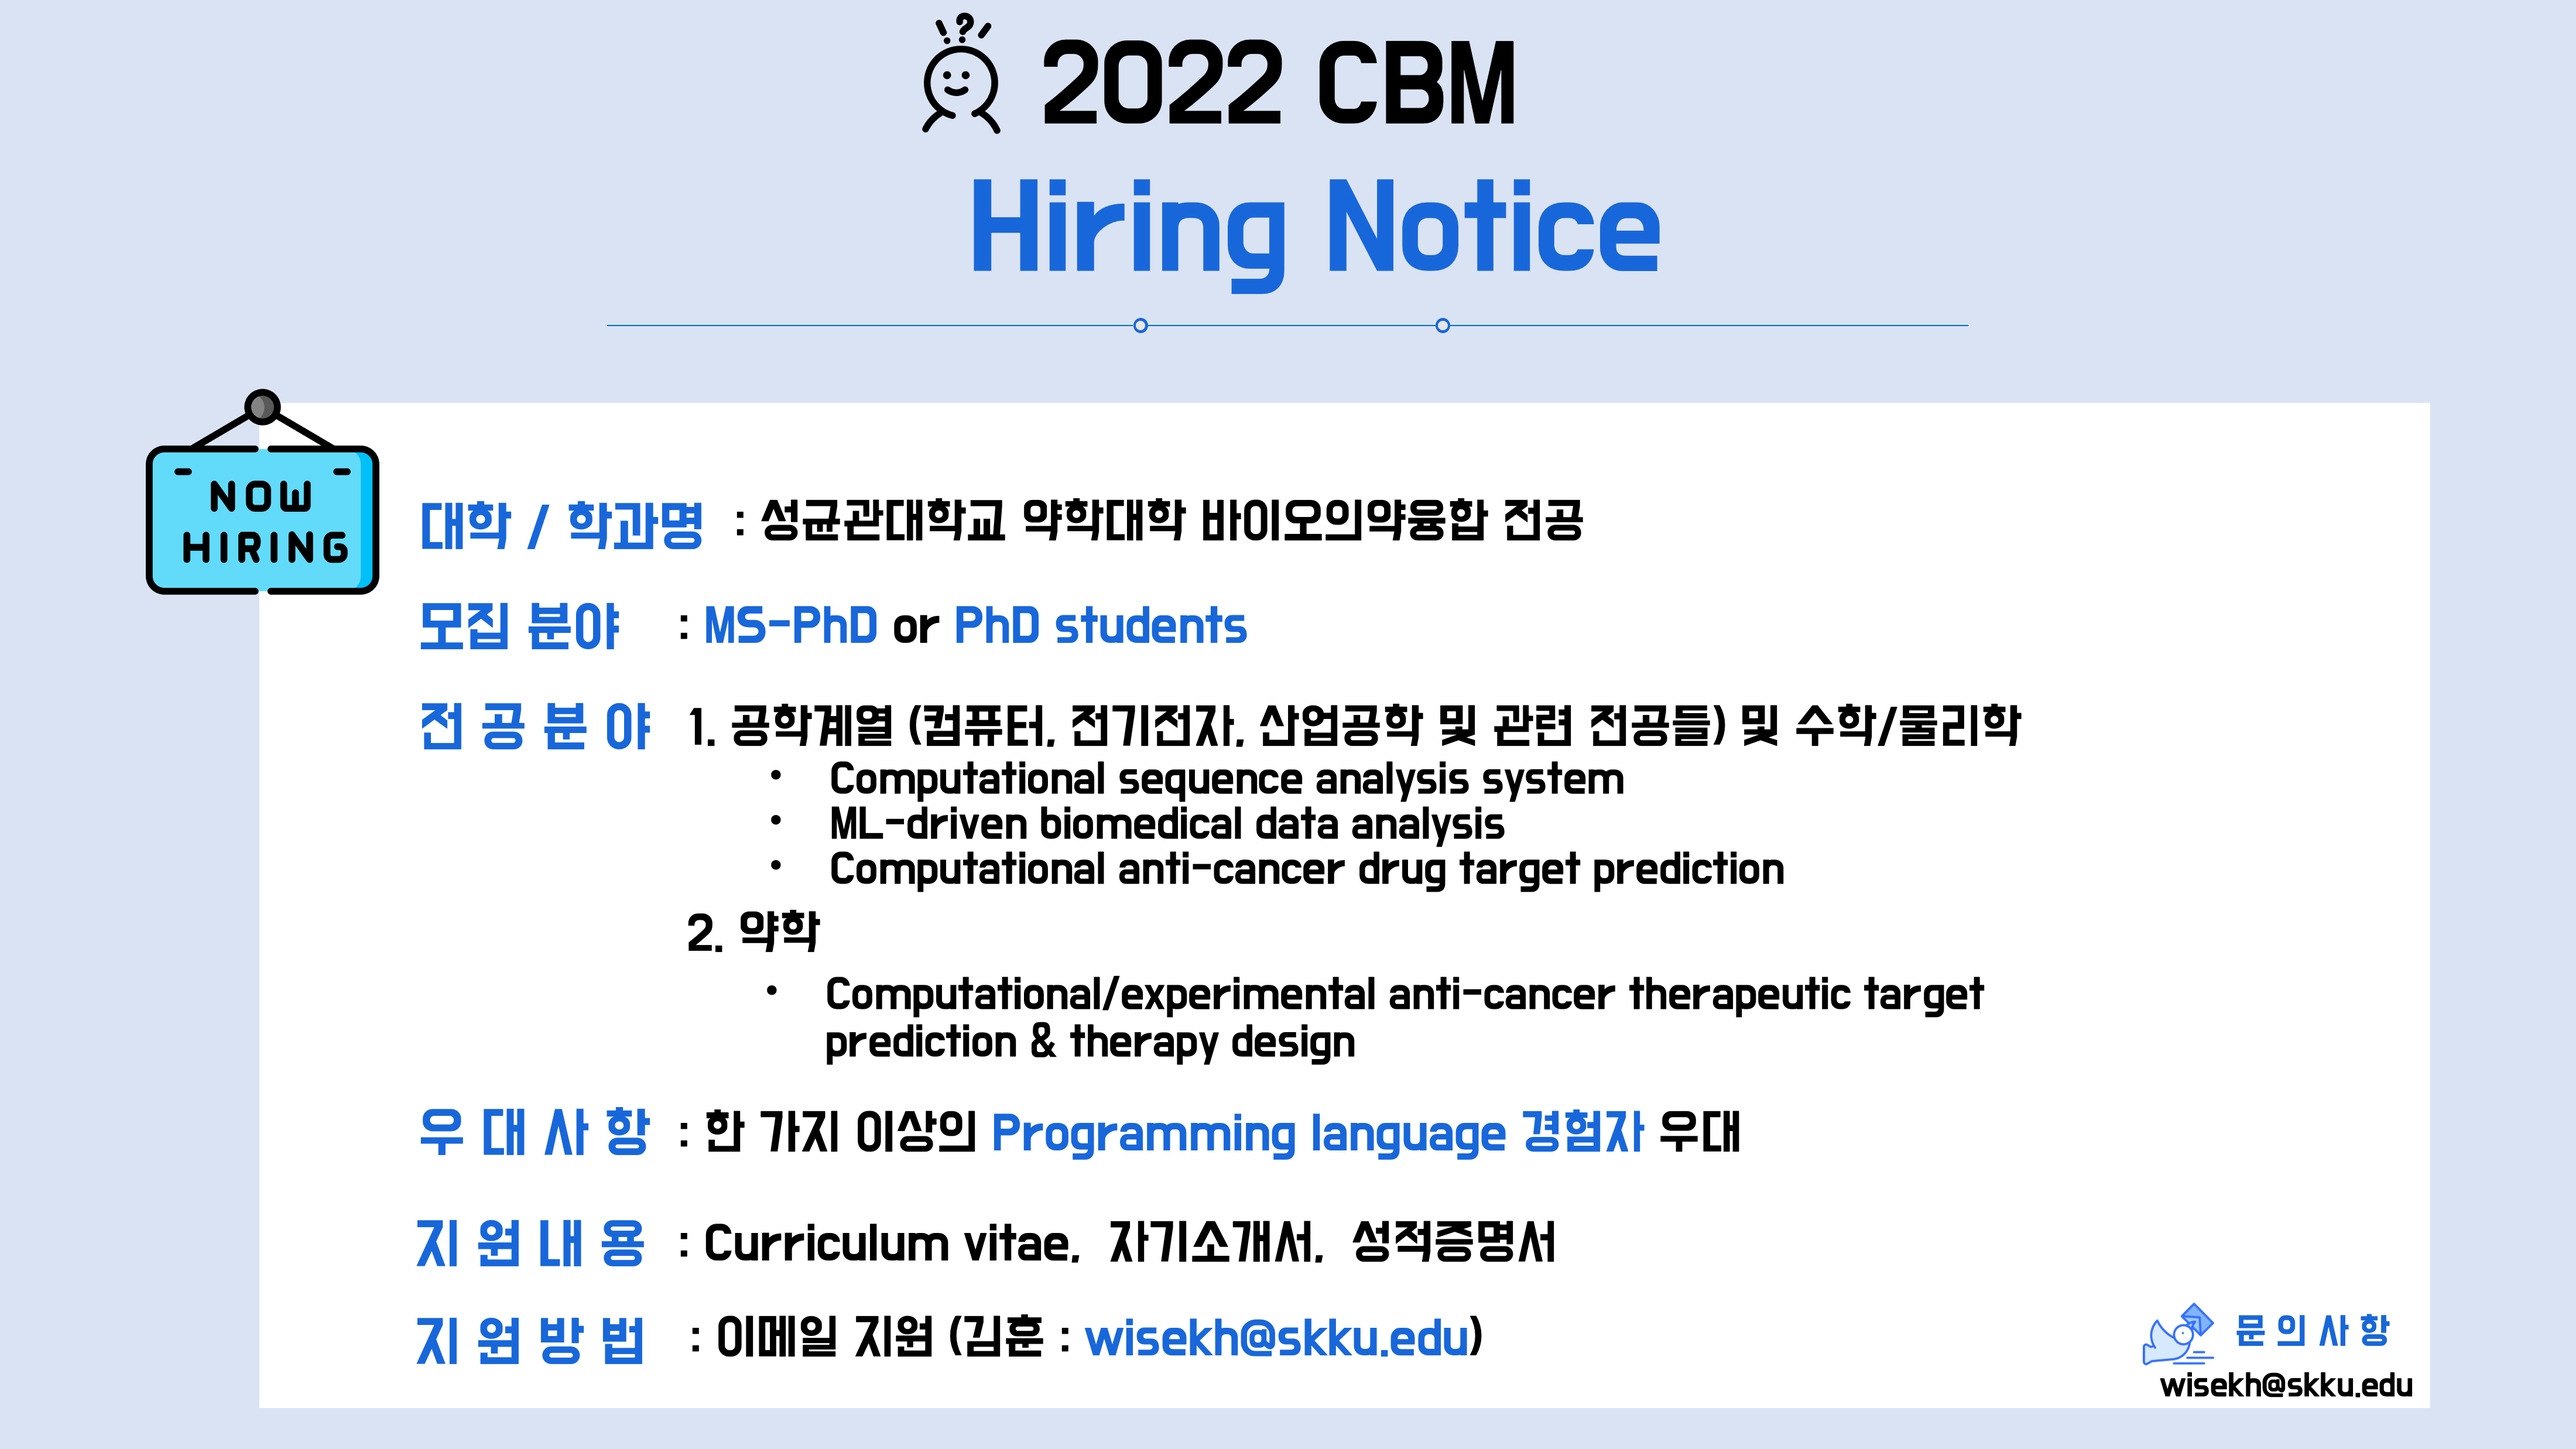
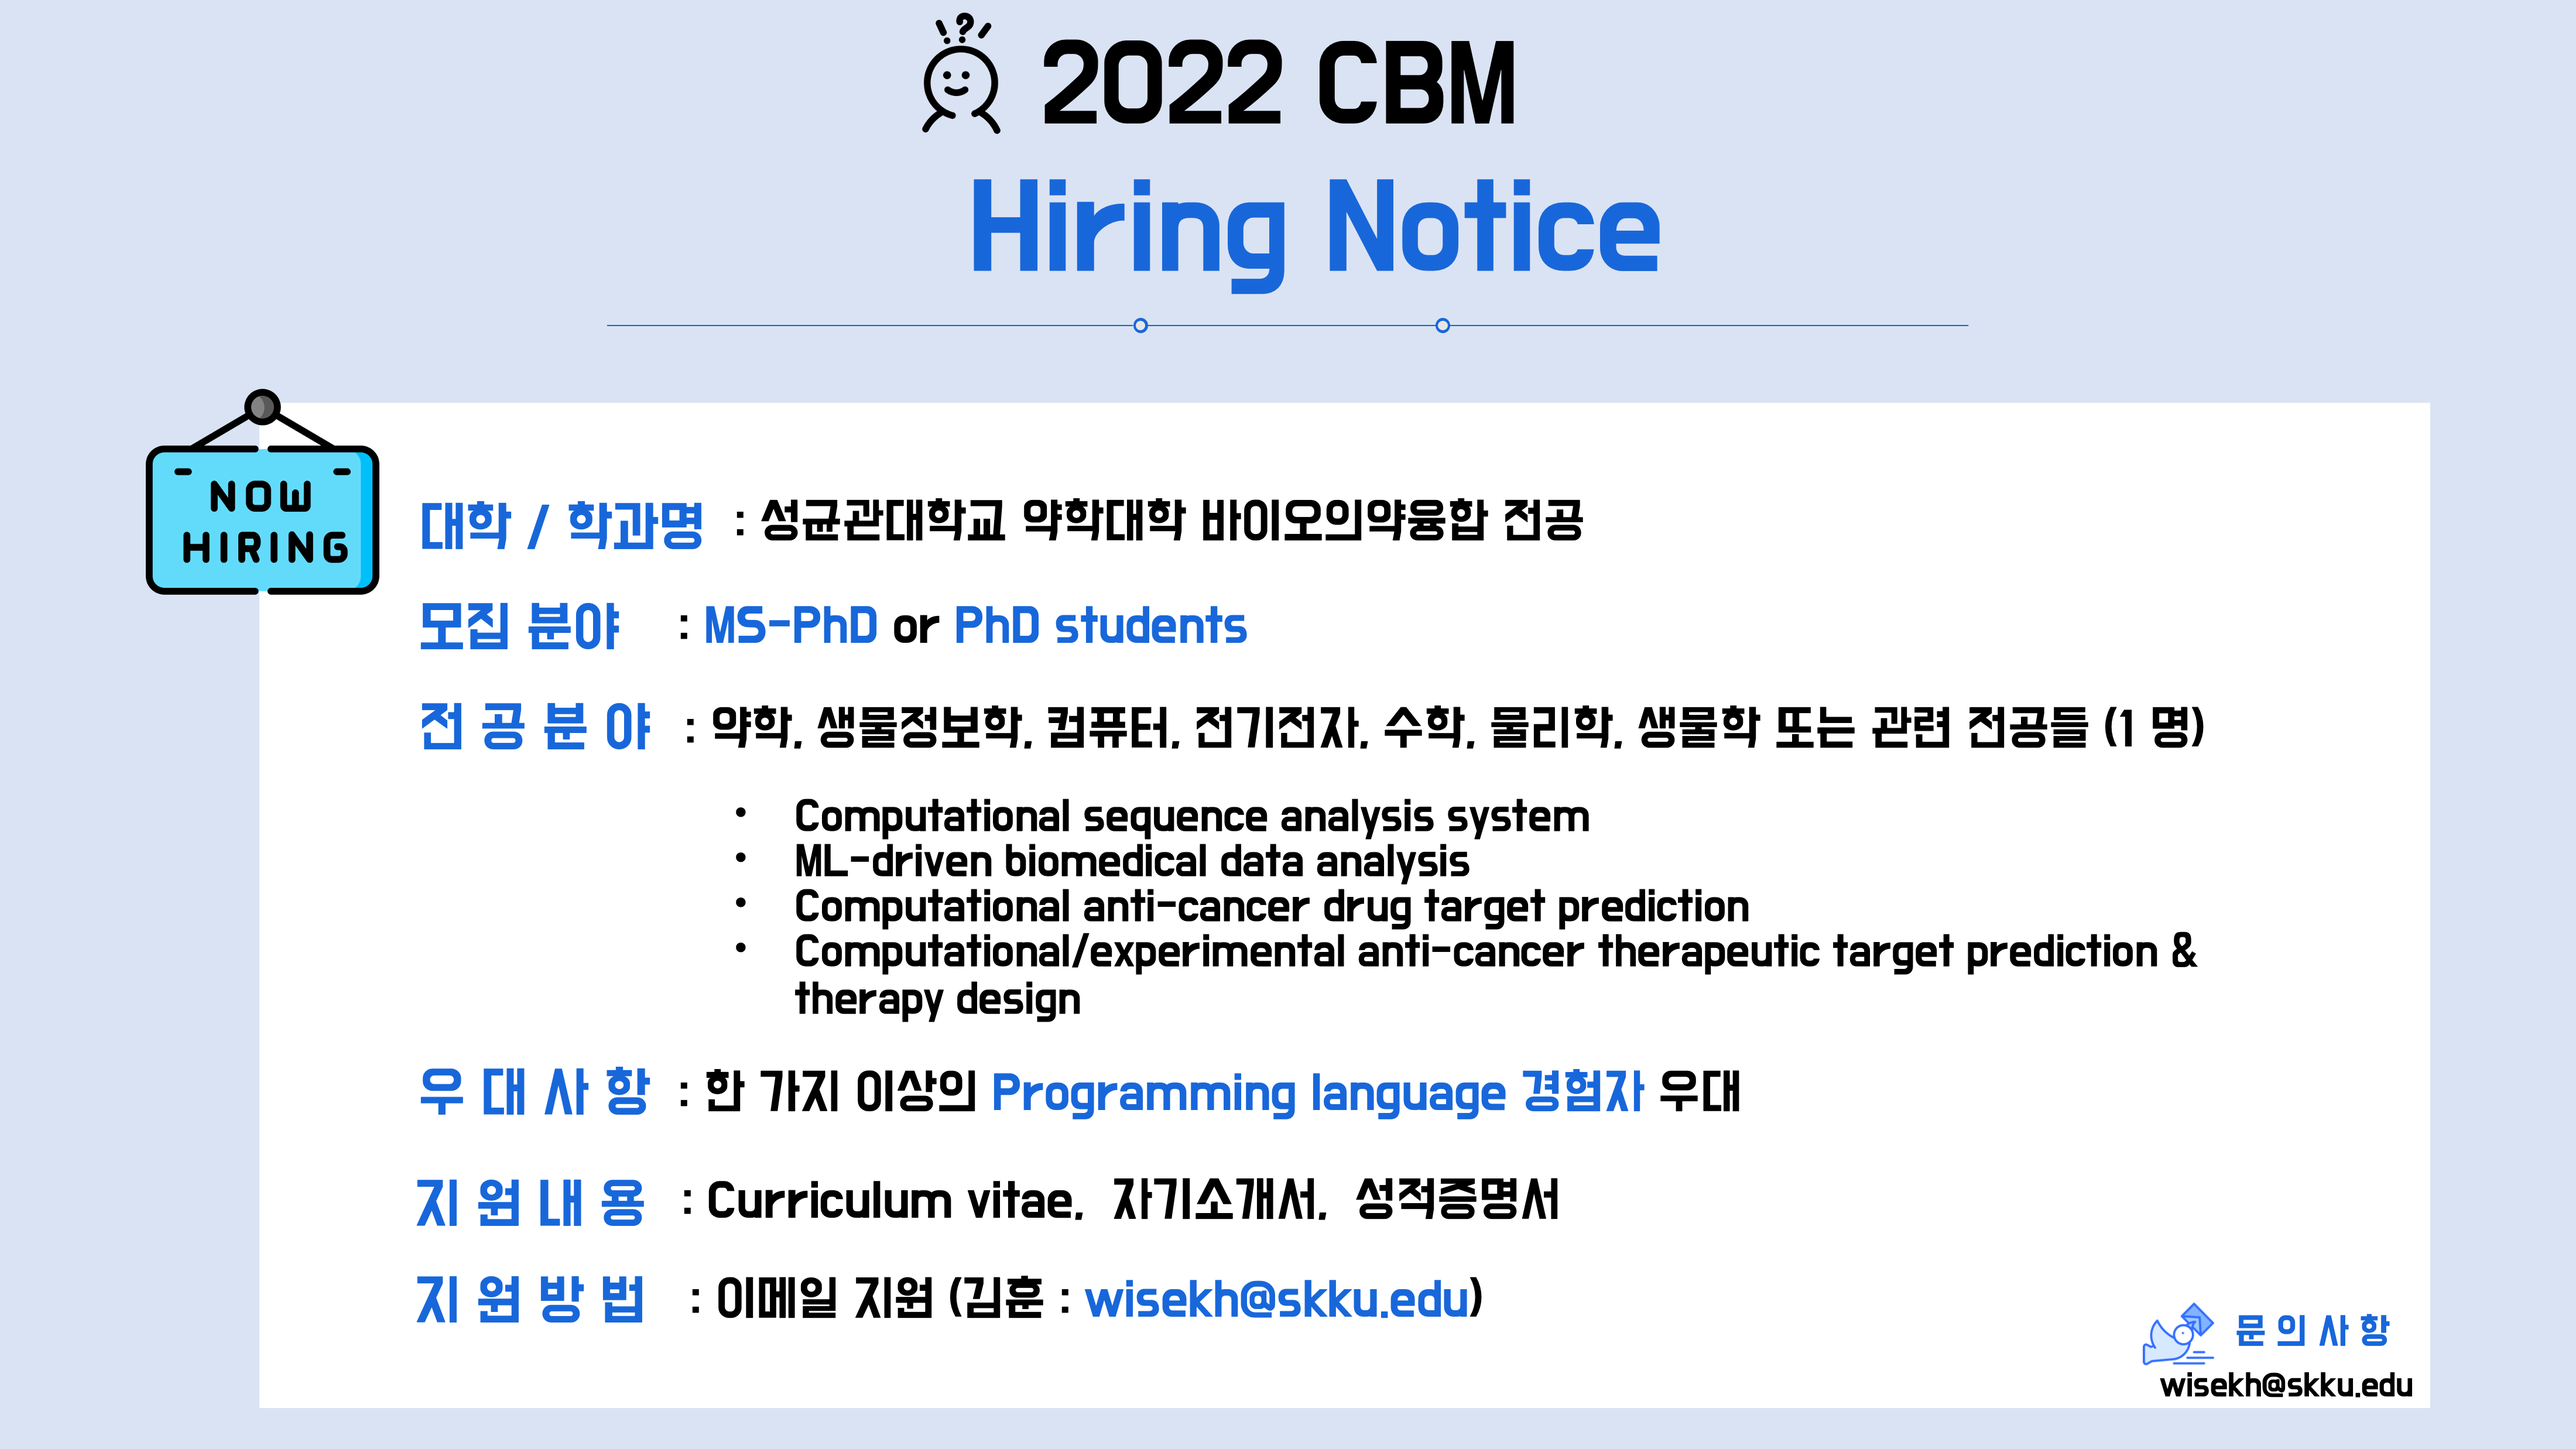
editted

Changed region(s): [[0.1557, 0.4667, 0.8718, 0.9644]]

diff --git a/pages/index.md b/pages/index.md
@@ -86,9 +86,9 @@ img {vertical-align: middle;
 ## **✓ Hiring notice**
 
 About **Research Assistant** <br />
-If you're interested, <a href="https://www.dropbox.com/s/mgwiz4tpbdxxd44/Grad_Student-20220419.pdf?dl=1">click here</a> <br />
+If you're interested, <a href="https://www.dropbox.com/s/sd6f6nstxgfw4dz/Grad_Student-20220501.pdf?dl=1">click here</a> <br />
 
-<img src="{{site.url}}/assets/img/2022_CBM_student_hiring_notice.png" style="width:100%">
+<img src="{{site.url}}/assets/img/2022_cbm_hiring_notice.png" style="width:100%">
 
 
 ## Lab Photos
